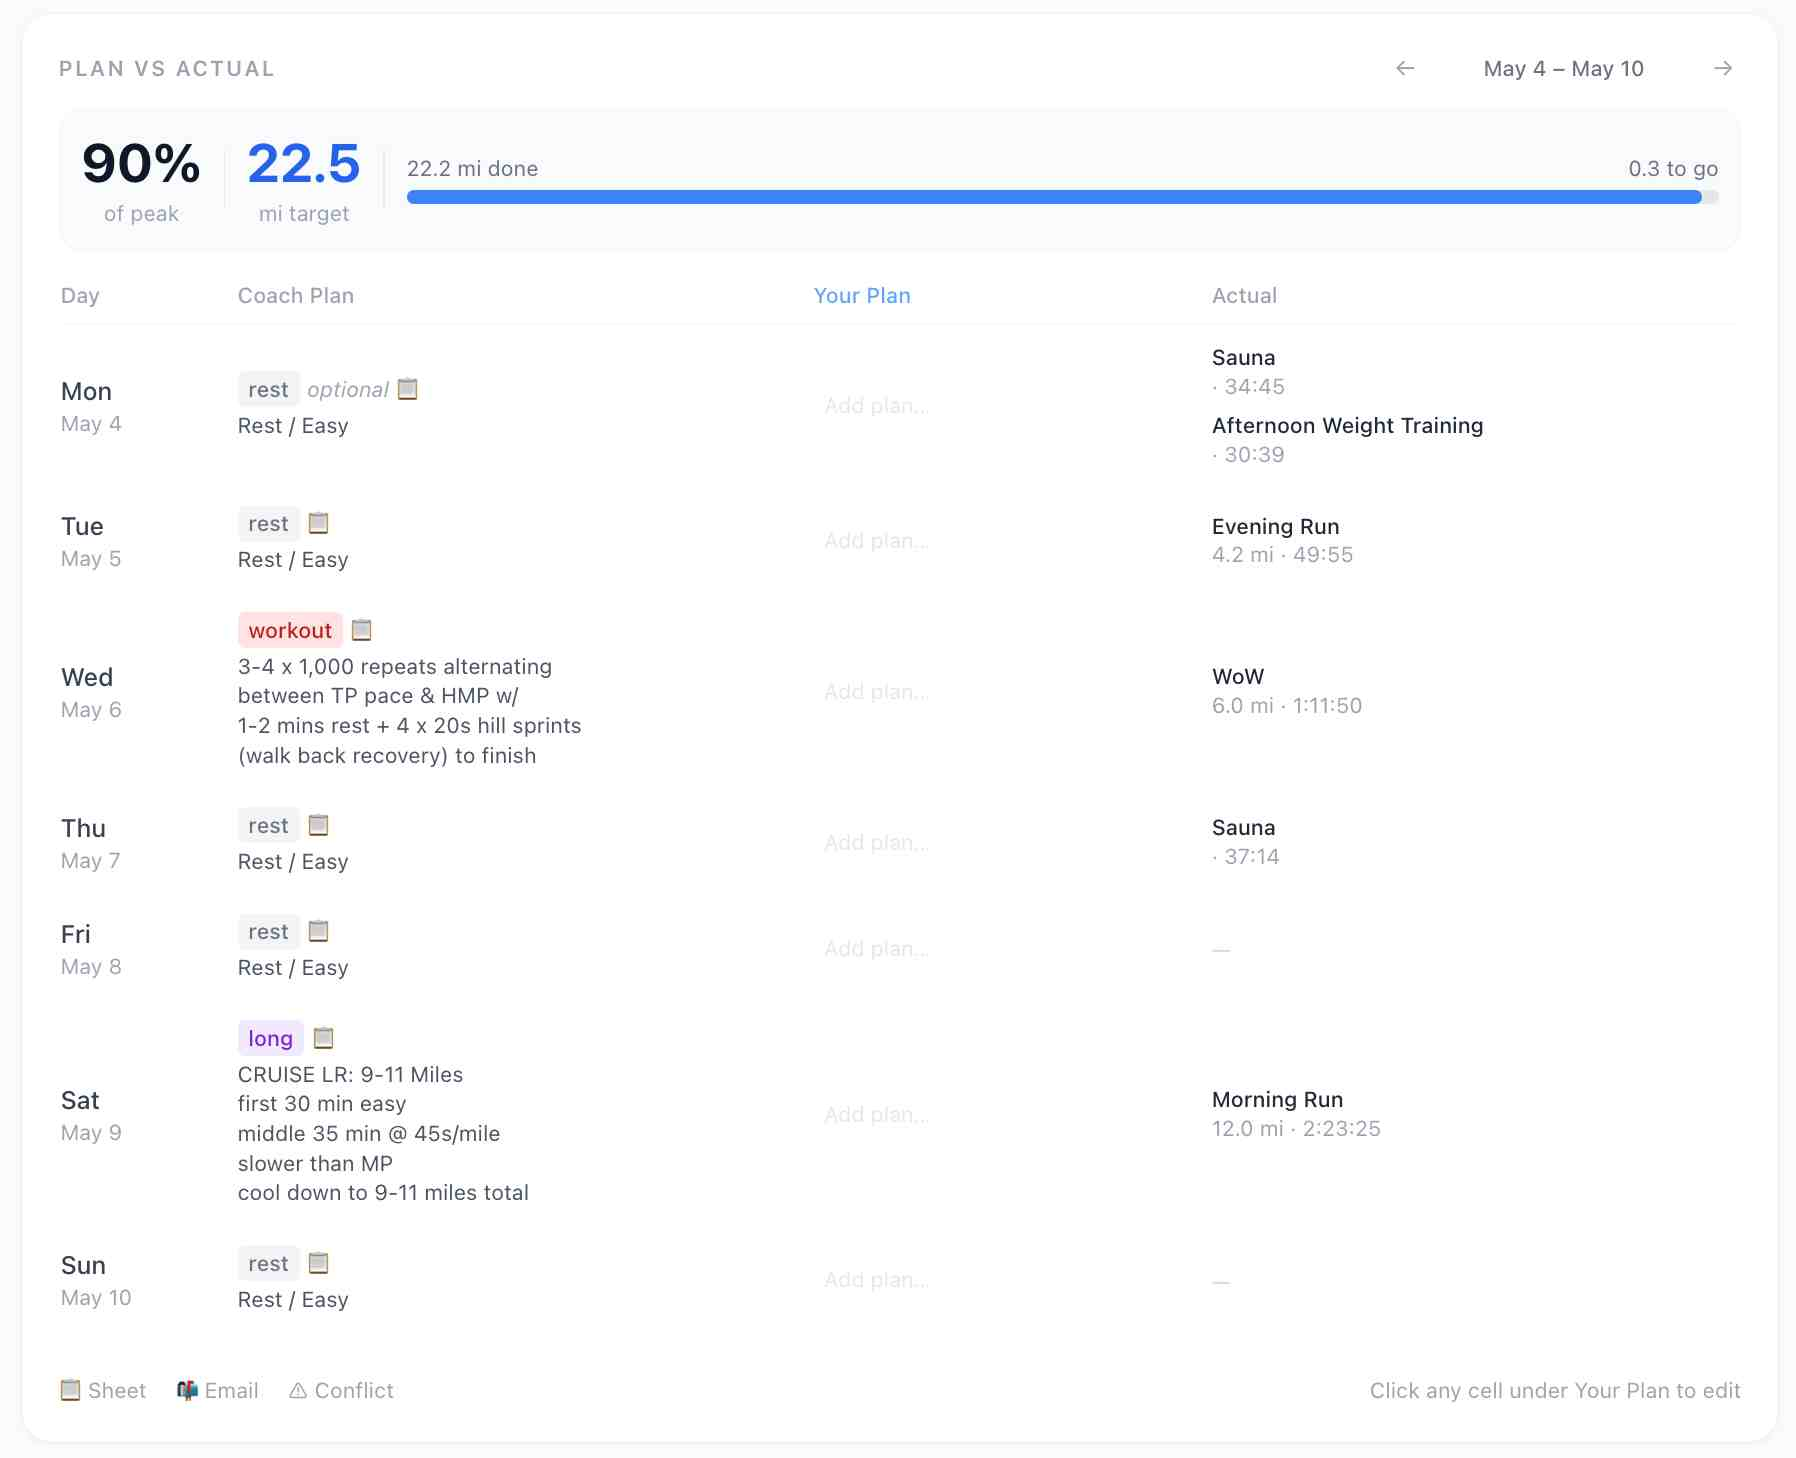
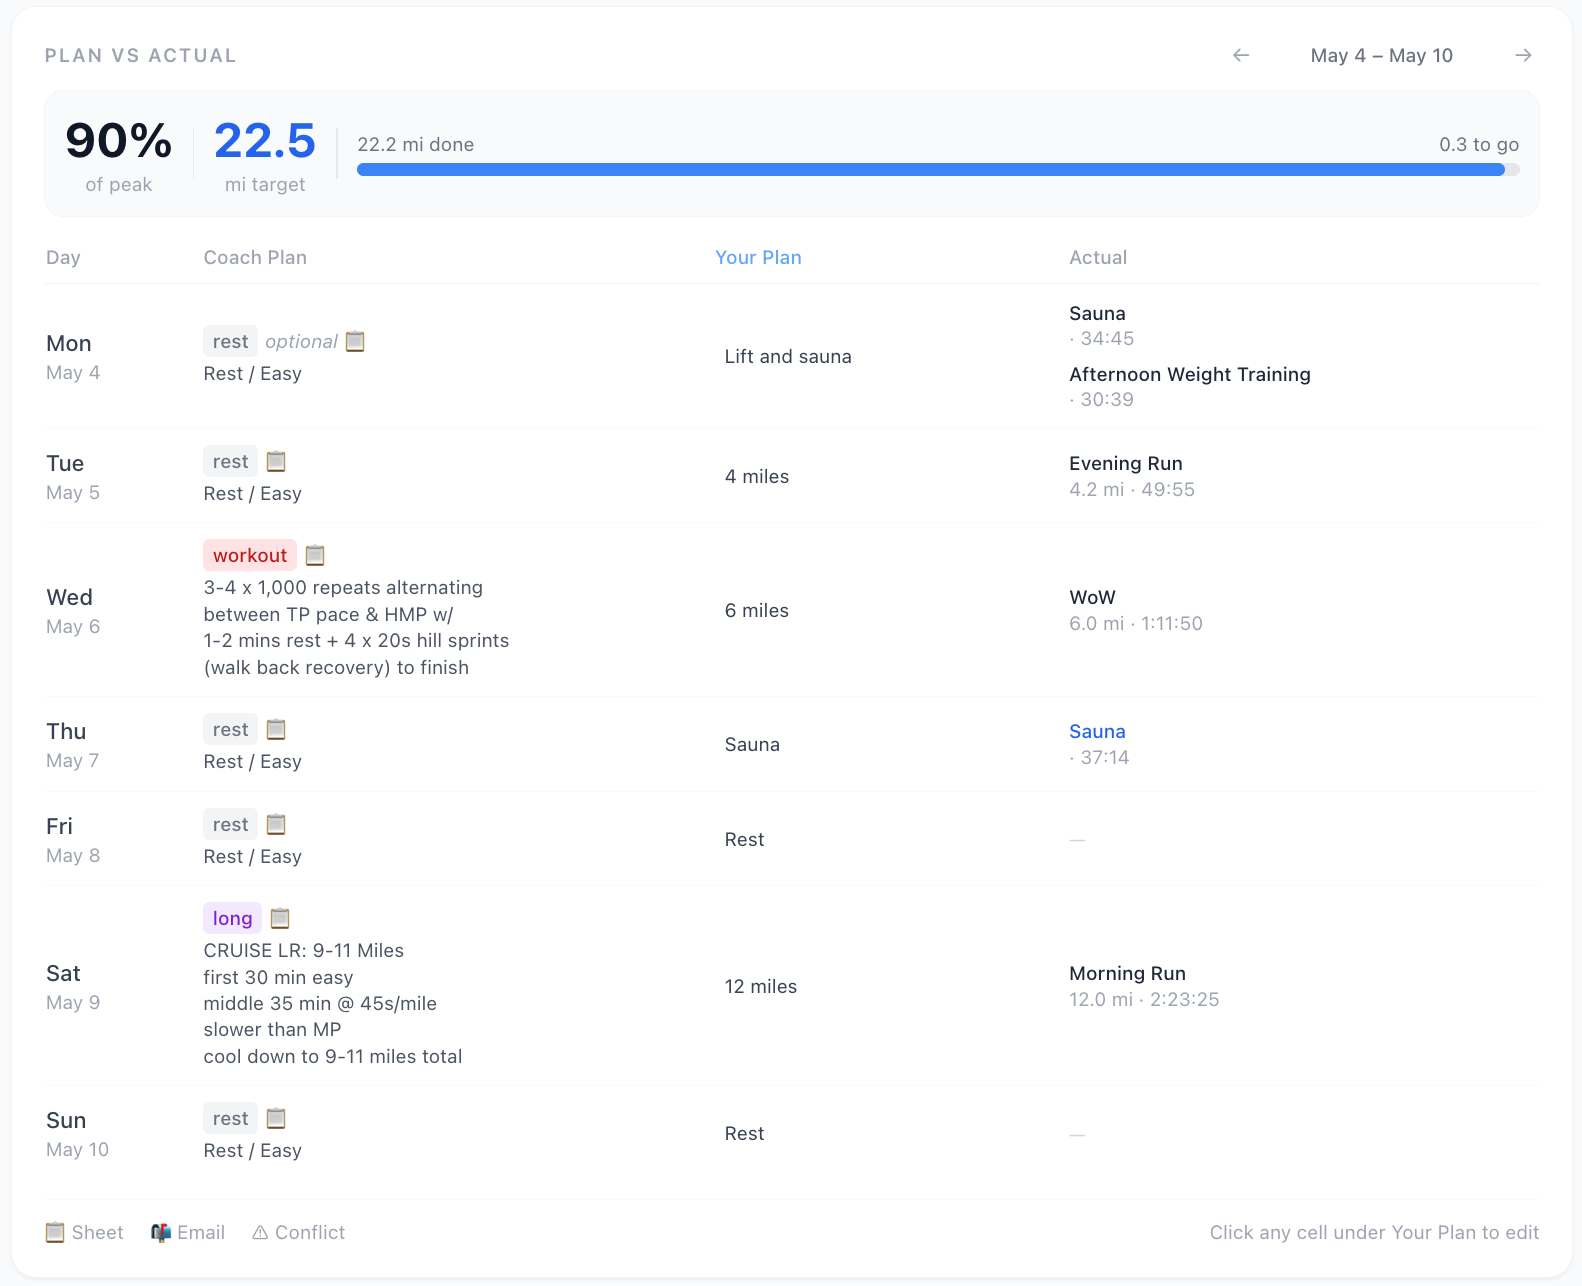
Refine Strava dashboard case study

diff --git a/data/caseStudies.js b/data/caseStudies.js
@@ -353,8 +353,8 @@ export const caseStudies = [
       { value: '5 tools', label: 'Custom Strava MCP server' },
       { value: '<2 days', label: 'from concept → launch' },
     ],
-    context: `While training for races in the past and currently prepping for a half marathon, my plan and my actual data lived in separate places that never talked to each other: a 4-month Google Sheet training plan with weekly agendas, an email digest from my coaches with adjustments to that plan, and the health and fitness data my Garmin watch records and syncs to Strava. I wanted a single place to see how my body was actually progressing, and how to adjust what's coming.`,
-    challenge: `Connect three live data sources into one dashboard that shows the week's plan next to actual Strava workouts, layer an AI coach on top to read historical data against upcoming plans, and build it in two days to move quick.`,
+    context: `Too much time was spent looking across separate systems to figure out how to best prepare for races and increase my fitness. The data was disjointed and toggling between apps was confusing and a pain. I wanted a single place to see how my body was actually progressing, and how to adjust what's coming.`,
+    challenge: `Connect three data sources to pull in historical metrics and plan future workouts. Strava owned my workout data, Google Sheets had my multi-month training plan, and my coach sent a weekly email outlining changes to the plan. On top of that, I wanted an AI coach to analyze my performance and recommend adjustments for my next workout.`,
     insight: null,
     role: null,
     execution: [
@@ -370,7 +370,7 @@ export const caseStudies = [
       { type: 'image', src: '/strava-dashboard/architecture.svg', caption: 'Three sources that never talked to each other, wired into one Next.js dashboard: Garmin and Strava for the actual workouts, a season-long Google Sheet for the plan, and weekly coach emails for the adjustments.' },
       { type: 'image', src: '/strava-dashboard/milestones.svg', caption: 'Six milestones, kickoff to live in under two days: the Strava MCP server, plan vs actual, AI workout analysis, history backfill, week navigation, and the season view.' },
       { type: 'image', src: '/strava-dashboard/plan-vs-actual_compressed.jpeg', caption: 'The payoff view: the week\'s % of peak target, the coach\'s reps, my own daily plan, and the actual Strava workout, all in one row.' },
-      { type: 'image', src: '/strava-dashboard/workout-analysis_compressed.jpeg', caption: 'Individual workouts can be selected and analyzed by a Claude-powered coach, with a plain-language read on how the workout went and recommendations for next time.' },
+      { type: 'image', src: '/strava-dashboard/workout-analysis_compressed.jpeg', caption: 'Individual workouts can be selected and analyzed by a Claude-powered coach, with a plain-language read on how the workout went and recommendations for next time.', description: 'Individual workouts can be selected and analyzed by a Claude-powered coach, with a plain-language read on how the workout went and recommendations for next time.', annotated: true },
       { type: 'image', src: '/strava-dashboard/this-week.png', caption: 'The week at a glance, plus the 12-week mileage trend and a countdown to race day.' },
       { type: 'image', src: '/strava-dashboard/history.png', caption: 'Every tracked week, rendered from the same clean source as the live dashboard.' },
     ],
